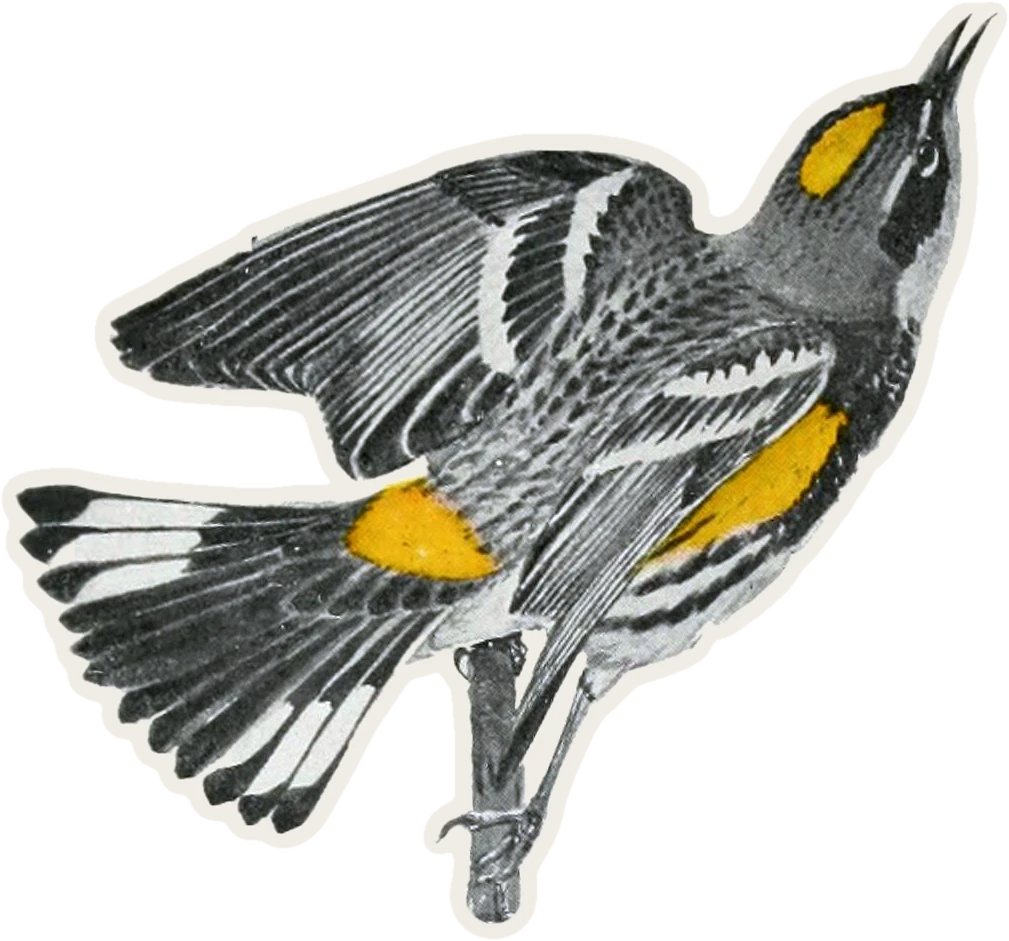
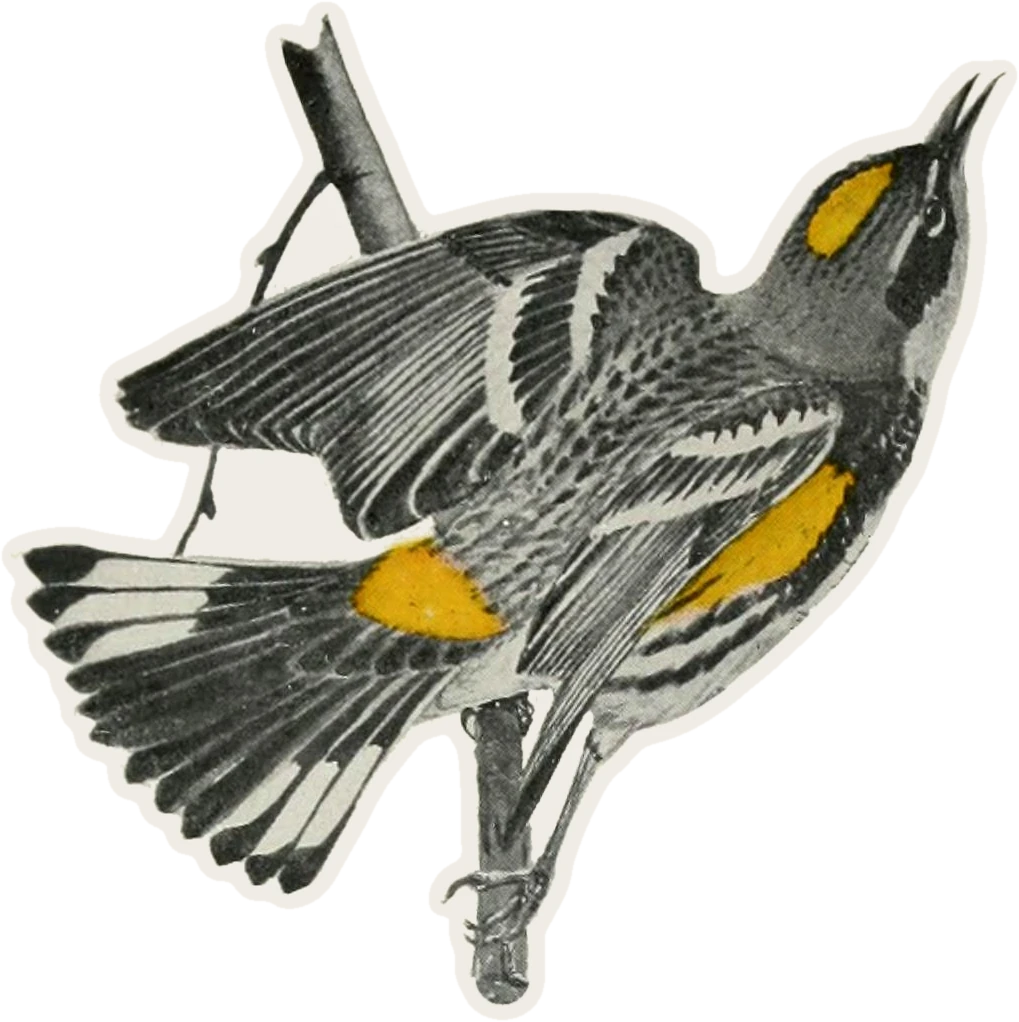
chore(assets): #151 recut setophaga-coronata-3 and drop spizella-passerina and passerina-cyanea

diff --git a/assets/artwork/classic/ATTRIBUTION.md b/assets/artwork/classic/ATTRIBUTION.md
@@ -97,10 +97,6 @@ And colour plates after his paintings in *Bird-Lore* (1916), Internet Archive sc
 from the Commons category [Bird Lore (1916)](https://commons.wikimedia.org/wiki/Category:Bird_Lore_(1916)),
 public domain (no known copyright restrictions).
 
-**Seton** - *Bird-Life: A Guide to the Study of Our Common Birds* by **Frank M. Chapman** (1897-1899), plates by **Ernest Thompson Seton** (born Thompson; also credited as Ernest Seton Thompson), Appleton / Biodiversity Heritage Library scans on Wikimedia Commons (e.g. [Bird-Life plates](https://commons.wikimedia.org/wiki/Category:Bird-Life)). Public domain in the US (published before 1930; Seton died 1946). Manifest key: `seton`.
-
-**Ann Lee** - bird and plant watercolours by **Ann Lee** (1753-1790), from the **Royal Albert Memorial Museum & Art Gallery** (Exeter) collection on Wikimedia Commons. Public domain (PD-old); RAMM releases the digitizations under CC0. Manifest key: `annlee`.
-
 **Hines** - Wildlife illustrations by **Bob Hines** (Robert W. Hines, 1912-1994) for the **U.S. Fish and Wildlife Service**, from the Commons category [Robert W. Hines](https://commons.wikimedia.org/wiki/Category:Robert_W._Hines). Public domain (US Federal Government work). Manifest key: `hines`.
 
 **Cassin** - *Illustrations of the Birds of California, Texas, Oregon, British and Russian America* by **John Cassin** (Philadelphia: J. B. Lippincott & Co., 1862), plates drawn by **George G. White**, put on stone by **William E. Hitchcock**, lithographed, printed and colored by **J. T. Bowen**, Biodiversity Heritage Library scans from the Commons category [Illustrations of the birds of California, Texas, Oregon, British and Russian America](https://commons.wikimedia.org/wiki/Category:Illustrations_of_the_birds_of_California,_Texas,_Oregon,_British_and_Russian_America); and Cassin's birds for the *Narrative of the Expedition of an American Squadron to the China Seas and Japan* (Perry expedition, vol. 2, 1856), lithographed by **William E. Hitchcock**, from the [Wellcome Collection](https://wellcomecollection.org/). Public domain (PD-scan / PD-old-70-expired). Manifest key: `cassin`.
@@ -167,4 +163,3 @@ CC BY 2.0. Manifest key: `jardine`.
 **Barbiers** - watercolour drawings by **Pieter Barbiers** in the **Rijksmuseum**, Amsterdam, via the Commons category [Drawings of birds in the Rijksmuseum Amsterdam](https://commons.wikimedia.org/wiki/Category:Drawings_of_birds_in_the_Rijksmuseum_Amsterdam). CC0. Manifest key: `barbiers`.
 
 **Lear** - *Illustrations of the Family of Psittacidae, or Parrots* by **Edward Lear** (1832), hand-coloured lithographs printed by **C. Hullmandel**, via the Commons category [Illustrations of the Family of Psittacidae, or Parrots (1832) by Edward Lear](https://commons.wikimedia.org/wiki/Category:Illustrations_of_the_Family_of_Psittacidae,_or_Parrots_(1832)_by_Edward_Lear). Public domain. Manifest key: `lear`.
-**Commons public domain** - assorted public-domain plates from Wikimedia Commons (PD-Art / PD-old / CC0 / Public domain), cut and edited for this project. Individual plate URLs are in `manifest.json`. Manifest key: `commons-pd`.
